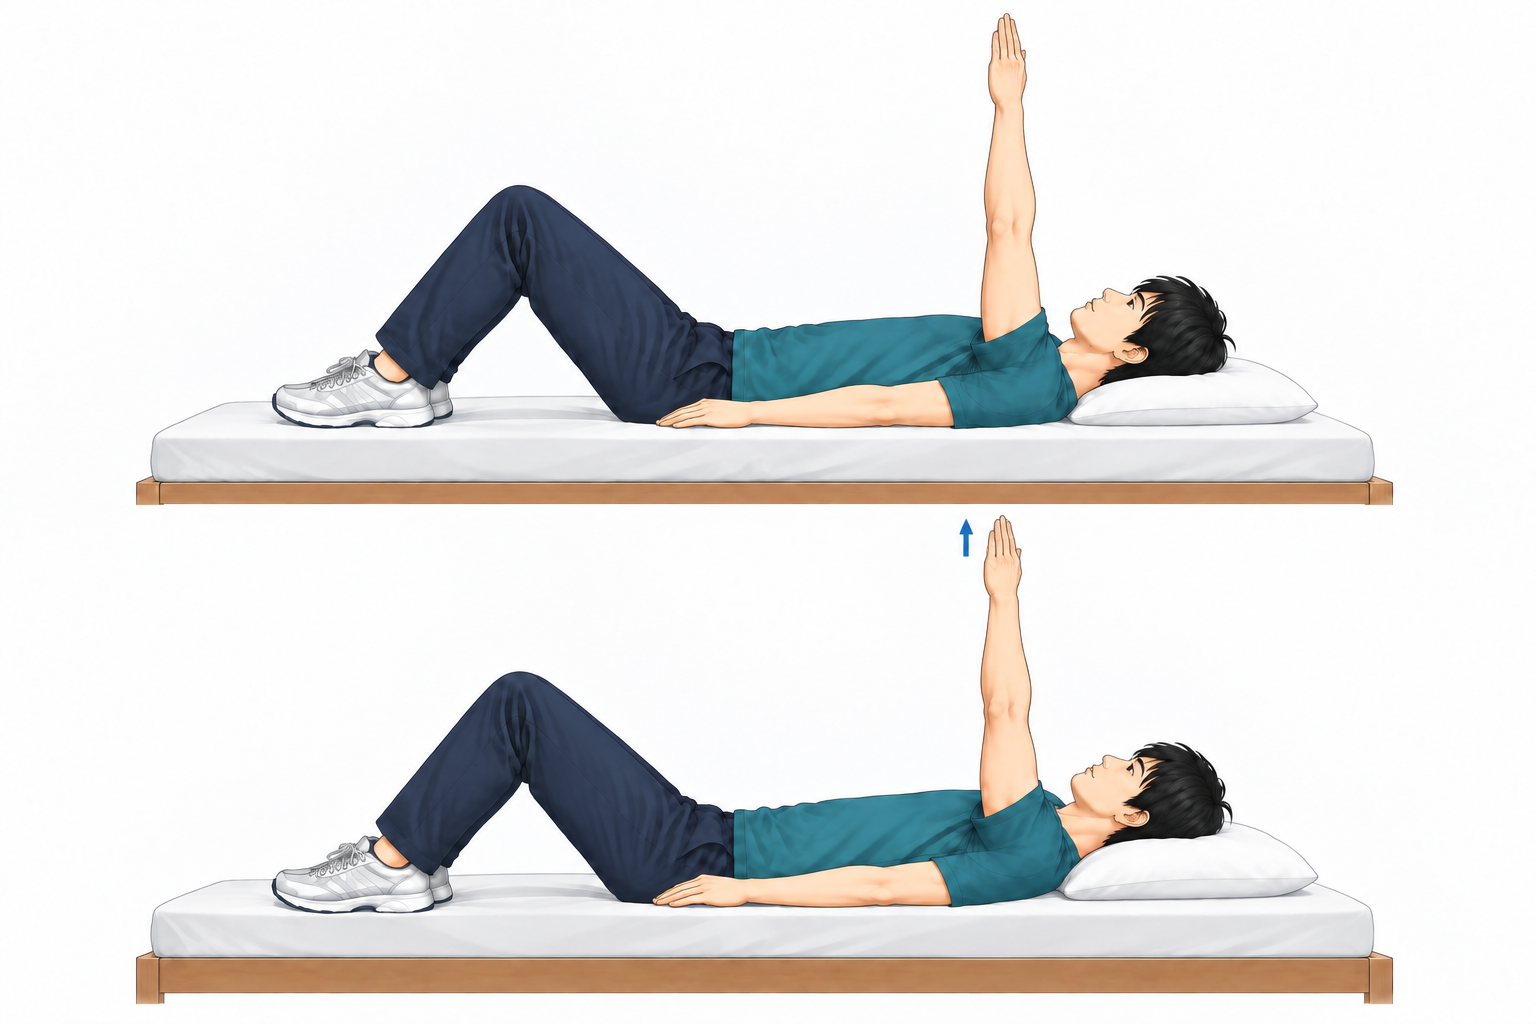
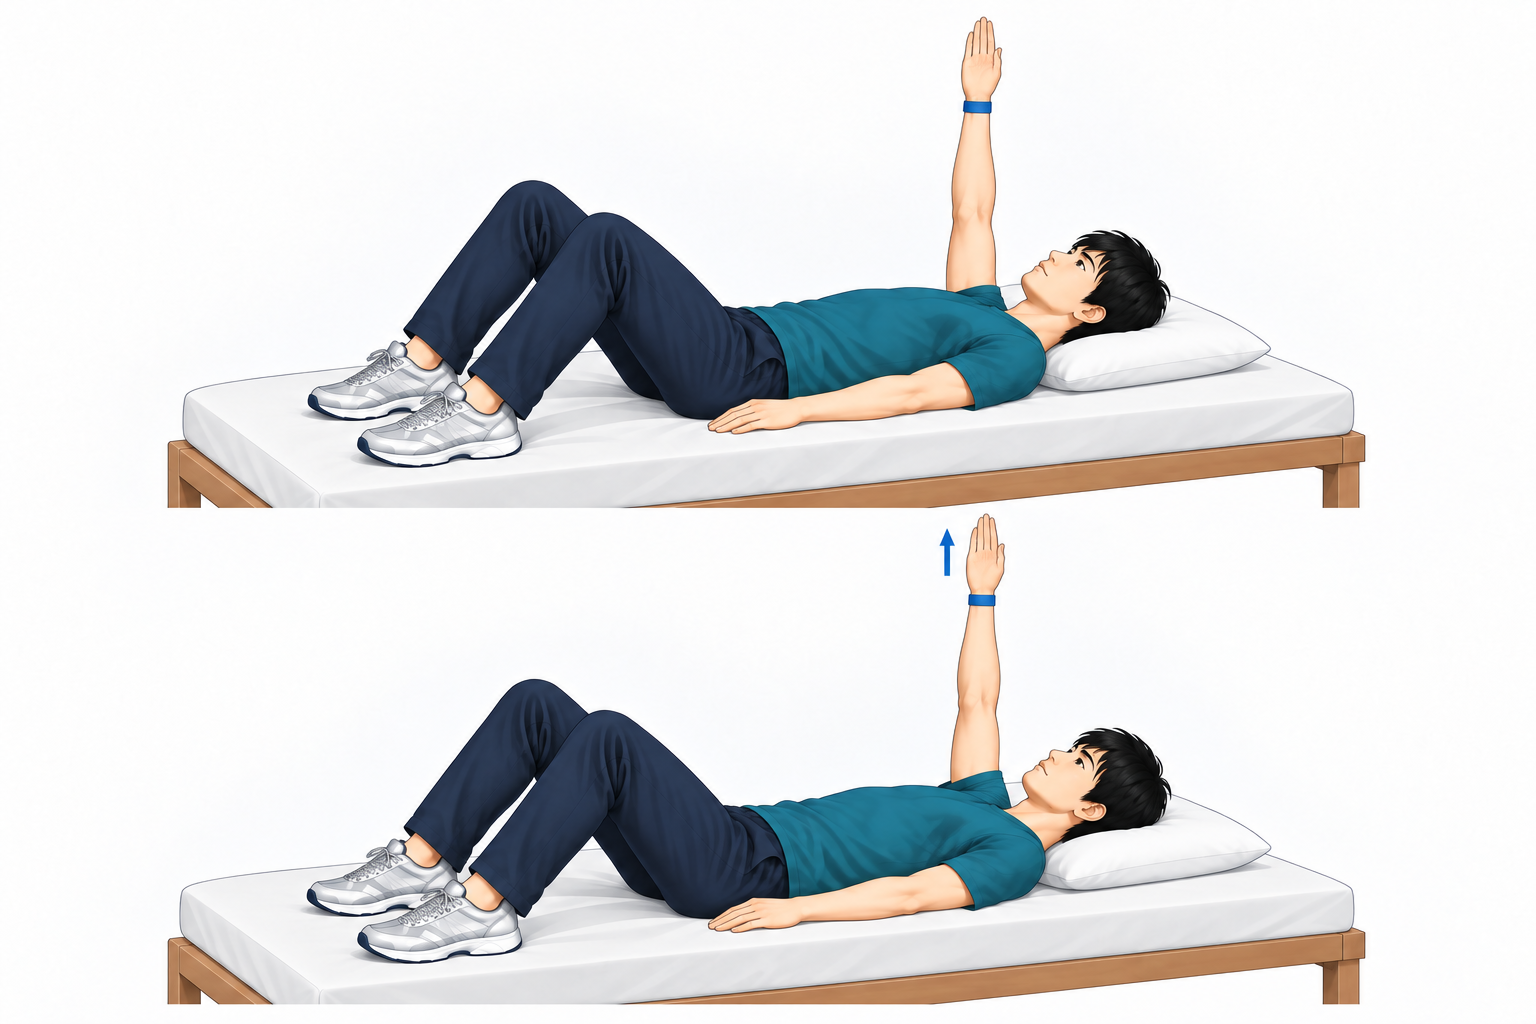
Fix duplicate exercise cards and simplify selection

Changed region(s): [[0.0625, 0.0, 0.9062, 1.0]]

diff --git a/clinical-ui.js b/clinical-ui.js
@@ -146,16 +146,21 @@ function openClinicalShelf(categoryId='G03',level){
   Object.assign(state,{categoryId,level});
   const familyOrder=['T25','T09','T26','T12'];
   const orderLevel=ids=>{const next=ids.filter(id=>!familyOrder.includes(id)),family=familyOrder.filter(id=>ids.includes(id));if(!family.length)return next;const first=Math.min(...ids.map((id,index)=>familyOrder.includes(id)?index:ids.length));next.splice(first,0,...family);return next;};
-  const candidateIds=Object.values(c.levels).flatMap(orderLevel);
+  // A movement can intentionally be referenced from more than one difficulty
+  // level. Render it once so the same card never appears twice in a shelf.
+  const candidateIds=[...new Set(Object.values(c.levels).flatMap(orderLevel))];
   for(const id of candidateIds){
     const item=clinicalBatch.items[id],saved=S.menu.find(ex=>ex.exerciseKey===CC.definitions[id].key);
     if(!item||(!item.selected&&(saved?JSON.stringify(saved):null)!==item.base))clinicalBatch.items[id]=newClinicalCandidate(id,categoryId);
   }
   // modal() replaces the DOM. Event handlers have already copied each edit into this draft.
   const draft=clinicalBatch;
-  modal('clinicalShelf',escapeHtml(clinicalCategoryName(c)),`<p class="hint">チェックで複数選択 → 必要な指示だけ変更・確認 → 一括保存。閉じると未保存の選択を取り消します。</p><div id="clinical-level" class="clinical-switch">${Object.entries({beginner:'初級',intermediate:'中級',advanced:'上級'}).map(([key,label])=>`<button class="btn btn-out" data-clinical-level="${key}" aria-pressed="${key===level}" onclick="openClinicalShelf('${categoryId}','${key}')">${label}</button>`).join('')}</div><div class="notice"><strong>疾患の注意・処方条件</strong><p>${escapeHtml(c.notes)}</p></div><label>運動名で検索<input id="clinical-exercise-search" class="fld-inp" value="${escapeAttr(draft.query)}" oninput="clinicalBatch.query=this.value;filterClinicalBatch()"></label><label class="pick-label"><input id="clinical-selected-only" type="checkbox" ${draft.only?'checked':''} onchange="clinicalBatch.only=this.checked;filterClinicalBatch()">選択済みだけ表示（段階を横断）</label><p id="clinical-batch-count" role="status"></p>
-  ${candidateIds.map(id=>[id,draft.items[id]]).map(([id,item])=>{const d=CC.definitions[id],r=item.ex.clinicalV02;return `<article class="clinical-candidate" data-clinical-exercise="${id}"><div class="clinical-candidate-heading"><label class="pick-label"><input type="checkbox" id="cb-${id}-selected" data-batch-key="selected" ${item.selected?'checked':''} ${!d.image?'disabled':''}>${escapeHtml(d.name)}</label>${d.image?`<button type="button" class="candidate-image" onclick="previewClinical('${id}')"><img src="${escapeAttr(d.image)}" alt="${escapeAttr(d.name)}の姿勢" loading="lazy"></button>`:'<span>画像保留・選択不可</span>'}</div><p class="hint">${escapeHtml(d.purpose)}${item.base?' ／ 追加済み・編集':''}</p><button type="button" class="evidence-button" onclick="showClinicalEvidence('${id}','${r.categoryId}')">参考文献・資料</button><div id="cb-${id}-selected-fields" ${!item.selected?'hidden':''}><details id="cb-${id}-details"><summary>回数・頻度を確認・変更</summary><p id="cb-${id}-overview">${escapeHtml(clinicalBatchOverview(item))}</p>${clinicalBatchFields(id,item)}</details></div></article>`;}).join('')}
-  <p id="clinical-batch-errors" role="alert"></p><button class="btn btn-out" onclick="clinicalBatch.only=true;$('clinical-selected-only').checked=true;clinicalBatch.query='';$('clinical-exercise-search').value='';filterClinicalBatch()">選択分を一括確認</button><button class="btn btn-pri" onclick="saveClinicalBatch(false)">選択種目を一括保存</button><button class="btn btn-pri" onclick="saveClinicalBatch(true)">一括保存してQR</button>`);
+  modal('clinicalShelf',escapeHtml(clinicalCategoryName(c)),`<p class="hint clinical-shelf-intro">必要な運動にチェックしてください。画像を押すと動きと資料を確認できます。</p><div id="clinical-level" class="clinical-switch">${Object.entries({beginner:'初級',intermediate:'中級',advanced:'上級'}).map(([key,label])=>`<button class="btn btn-out" data-clinical-level="${key}" aria-pressed="${key===level}" onclick="openClinicalShelf('${categoryId}','${key}')">${label}<small>${c.levels[key].length}種目</small></button>`).join('')}</div><details class="clinical-notes" open><summary>注意事項</summary><p>${escapeHtml(c.notes)}</p></details><details class="clinical-tools"><summary>検索・選択中の運動を表示</summary><label for="clinical-exercise-search">運動名で検索</label><input id="clinical-exercise-search" class="fld-inp" value="${escapeAttr(draft.query)}" oninput="clinicalBatch.query=this.value;filterClinicalBatch()"><label class="pick-label"><input id="clinical-selected-only" type="checkbox" ${draft.only?'checked':''} onchange="clinicalBatch.only=this.checked;filterClinicalBatch()">選択中だけ表示</label></details>
+  ${candidateIds.map(id=>[id,draft.items[id]]).map(([id,item])=>{const d=CC.definitions[id];return `<article class="clinical-candidate" data-clinical-exercise="${id}"><div class="clinical-candidate-heading"><label class="pick-label"><input type="checkbox" id="cb-${id}-selected" data-batch-key="selected" ${item.selected?'checked':''} ${!d.image?'disabled':''}><span>${escapeHtml(d.name)}<small>${escapeHtml(d.purpose)}${item.base?' ／ 追加済み・編集':''}</small></span></label>${d.image?`<button type="button" class="candidate-image" aria-label="${escapeAttr(d.name)}の動きと資料を確認" onclick="previewClinical('${id}')"><img src="${escapeAttr(d.image)}" alt="" loading="lazy"></button>`:'<span>画像保留・選択不可</span>'}</div><div id="cb-${id}-selected-fields" ${!item.selected?'hidden':''}><p id="cb-${id}-overview" class="clinical-dose-summary">${escapeHtml(clinicalBatchOverview(item))}</p><details id="cb-${id}-details"><summary>回数・頻度を変更する</summary>${clinicalBatchFields(id,item)}</details></div></article>`;}).join('')}
+  <div class="clinical-save-bar"><p id="clinical-batch-count" role="status"></p><p id="clinical-batch-errors" role="alert"></p><button id="clinical-save" class="btn btn-pri" onclick="saveClinicalBatch(false)">選択した運動を保存</button><button id="clinical-save-share" class="btn btn-out" onclick="saveClinicalBatch(true)">保存してQRを表示</button></div>`);
+  const clinicalNotes=$('clinicalShelf').querySelector('.clinical-notes');
+  clinicalNotes?.classList.add('notice');
+  if(clinicalNotes?.firstElementChild)clinicalNotes.firstElementChild.textContent='疾患の注意事項';
   clinicalBatch=draft;
   for(const type of ['input','change'])$('clinicalShelf').addEventListener(type,updateClinicalBatch);
   wireClinicalErrors('clinicalShelf','clinical-batch-errors');
@@ -164,7 +169,9 @@ function openClinicalShelf(categoryId='G03',level){
 function filterClinicalBatch(){
   if(!clinicalBatch)return;const state=clinicalSelectionState(),draft=clinicalBatch;
   $('clinicalShelf').querySelectorAll('[data-clinical-exercise]').forEach(row=>{const id=row.dataset.clinicalExercise;row.hidden=draft.only?!draft.items[id].selected:!CC.categories[state.categoryId].levels[state.level].includes(id)||!(CC.definitions[id].name+' '+CC.definitions[id].purpose).toLowerCase().includes(draft.query.toLowerCase());});
-  $('clinical-batch-count').textContent=`この段階 ${CC.categories[state.categoryId].levels[state.level].length}種目 ／ 表示 ${[...$('clinicalShelf').querySelectorAll('[data-clinical-exercise]')].filter(row=>!row.hidden).length}種目 ／ 選択 ${Object.values(draft.items).filter(i=>i.selected).length}種目（非表示の段階の選択も保持）`;
+  const selected=Object.values(draft.items).filter(i=>i.selected).length;
+  $('clinical-batch-count').textContent=selected?`${selected}種目を選択中`:'運動を選択してください';
+  for(const id of ['clinical-save','clinical-save-share'])$(id).disabled=selected===0;
 }
 function setClinicalBatchValue(id,key,value){if(!requireStaff())return;const input=$('cb-'+id+'-'+key);input.value=value;input.dispatchEvent(new Event('input',{bubbles:true}));}
 function selectClinicalEveryday(id){

diff --git a/app-v2.css b/app-v2.css
@@ -123,14 +123,19 @@ fieldset input[type=checkbox]{width:22px;height:22px;flex:none;accent-color:var(
 #clinical-categories .tpl-card{min-height:56px;padding:10px;white-space:normal;overflow-wrap:anywhere}
 .clinical-switch{display:flex;gap:8px;margin:8px 0}
 .clinical-switch .btn{flex:1;min-width:0;min-height:44px;margin:0;padding:10px 4px;white-space:normal}
+.clinical-switch .btn small{display:block;font-size:11px;font-weight:500;margin-top:2px}
 .clinical-switch [aria-pressed="true"]{background:var(--teal);color:white;border:2px solid var(--teal);font-weight:700}
 .clinical-notes summary{min-height:44px;padding:12px 0;cursor:pointer}
-.clinical-candidate{border:1px solid #c7d9d9;border-radius:10px;padding:10px;margin:10px 0;min-width:0}
+.clinical-tools{margin:4px 0 10px}.clinical-tools summary{min-height:44px;padding:10px 0;cursor:pointer;color:var(--teal);font-weight:700}.clinical-tools .pick-label{font-size:15px}
+.clinical-shelf-intro{margin:0 0 6px}
+.clinical-candidate{border:1px solid #c7d9d9;border-radius:12px;padding:10px 12px;margin:8px 0;min-width:0}
 .clinical-candidate-heading{display:flex;align-items:center;gap:12px;min-width:0}
 .clinical-candidate-heading img{width:72px;height:72px;object-fit:contain;flex-shrink:0}
 .clinical-candidate-heading h3{font-size:16px;min-width:0;margin:0;overflow-wrap:anywhere}
 #clinicalShelf .clinical-candidate[hidden]{display:none!important}
 #clinicalShelf .clinical-candidate-heading>.pick-label{flex:1;min-width:0;overflow-wrap:anywhere;min-height:44px;align-items:center}
+#clinicalShelf .clinical-candidate-heading>.pick-label span{display:block;min-width:0}
+#clinicalShelf .clinical-candidate-heading>.pick-label small{display:block;color:var(--text2);font-size:13px;font-weight:500;margin-top:3px}
 #clinicalShelf .candidate-image{flex:0 0 72px;width:72px;height:56px;padding:2px}
 #clinicalShelf .candidate-image img{width:100%;height:100%}
 #clinicalShelf details>summary{min-height:44px;padding:10px 0;cursor:pointer;overflow-wrap:anywhere}
@@ -138,6 +143,10 @@ fieldset input[type=checkbox]{width:22px;height:22px;flex:none;accent-color:var(
 #clinicalShelf .fld-inp{max-width:100%;min-width:0}
 #clinicalShelf .dose-choice{min-width:44px;min-height:44px}
 #clinical-batch-errors{color:#9c2626;white-space:pre-wrap;overflow-wrap:anywhere}
+.clinical-dose-summary{font-size:13px;color:var(--teal-d);margin:6px 0 0}
+.clinical-save-bar{position:sticky;bottom:0;z-index:2;background:#fff;border-top:1px solid var(--border);padding:8px 0 calc(4px + env(safe-area-inset-bottom,0px));margin-top:12px}
+.clinical-save-bar #clinical-batch-count{margin:0 0 6px;text-align:center;color:var(--teal-d);font-weight:700}
+.clinical-save-bar #clinical-batch-errors:empty{display:none}.clinical-save-bar .btn{width:100%;margin:5px 0}
 .clinical-candidate-actions{display:flex;gap:8px;margin-top:8px}
 .clinical-candidate-actions .btn{flex:1;min-width:0;min-height:44px;margin:0;padding:8px 4px;white-space:normal}
 /* Clinical v0.2: text reflows; primary and stop controls remain in the dialog. */

diff --git a/clinical-catalog.js b/clinical-catalog.js
@@ -220,9 +220,9 @@ const data={
       "image": "images/S11.png",
       "imageCaption": "肘を伸ばしたまま、手を天井へ少し近づけて戻します。腕を頭側へ倒さないでください。",
       "assetStatus": "修正後採用候補",
-      "assetNotes": "生成後実見：頭右、手前左腕は床、奥右腕は天井へ。肘伸展を保ち小さな上矢印。肩甲骨そのものは隠れるため本文を併用。",
+      "assetNotes": "開始は右肩を床へ休め、終了は肘を伸ばしたまま右肩を少し浮かせて手を天井へ近づける2姿勢。右手首の青いバンドと小さな上矢印で挙上側を明示。左右の腕は各肩から連続し、各姿勢とも腕2本・手2つ。肩甲骨そのものは隠れるため本文を併用。",
       "clinicalStatus": "pending_review",
[2 lines of base64/hex data omitted]
     },
     "S12": {
       "id": "S12",

diff --git a/sw.js b/sw.js
@@ -2,8 +2,8 @@
 importScripts('./exercises.js');
 importScripts('./clinical-catalog.js');
 const PREFIX = 'patient-rehab-' + encodeURIComponent(self.registration.scope) + '-';
-const CACHE = PREFIX + 'v63';
-const IMAGE_CACHE = PREFIX + 'clinical-images-v1';
+const CACHE = PREFIX + 'v64';
+const IMAGE_CACHE = PREFIX + 'clinical-images-v2';
 const IMAGE_URLS = new Set(Object.values(ClinicalCatalog.definitions).filter(d=>d.image).map(d=>new URL(d.image,self.registration.scope).href));
 const FILES = ['./','./index.html','./manifest.json','./clinical-catalog.js','./clinical-rules.js','./clinical-ui.js','./clinical-review.html','./core.js','./exercises.js','./prescription-defaults.js','./disease-library.js','./exercise-selection.js','./ui.js','./app-v2.js','./bug-report.js','./exercise-print.js','./exercise-video.js','./patient-video.js','./clinical-evidence.js','./exercise-evidence.js','./app-v2.css',
   './icon-180.png','./icon-192.png','./icon-512.png',

diff --git a/bug-report.js b/bug-report.js
@@ -10,7 +10,7 @@ function bugReportEnvironment(nav){
   return `端末：${device}\nOS：${os}\nブラウザ：${browser}`;
 }
 function buildBugReport(intent,actual,nav,date){
-  return `【不具合報告】\nやろうとしたこと：\n${intent}\n\n実際に起きたこと：\n${actual}\n\nアプリ版：v63\n日時：${date.toISOString()}（UTC）\n${bugReportEnvironment(nav)}`;
+  return `【不具合報告】\nやろうとしたこと：\n${intent}\n\n実際に起きたこと：\n${actual}\n\nアプリ版：v64\n日時：${date.toISOString()}（UTC）\n${bugReportEnvironment(nav)}`;
 }
 function openBugReport(){
   modal('bugReportModal','不具合を報告',`

diff --git a/README.md b/README.md
@@ -1,5 +1,11 @@
 # 患者リハビリチェックアプリ
 
+## 2026-09-28 運動選択の重複修正・簡素化（v64）
+
+- 同じ運動が複数の難易度に含まれる場合でも、疾患別メニュー内のカードは1枚だけ表示します。テニス肘の「軽い棒を回す」「手首を保って軽く握る」、頚椎椎間板ヘルニアの「短い歩行」などの二重表示を解消しました。
+- 運動選択画面は、段階・運動カード・保存操作を中心に整理しました。疾患の注意事項は最初から表示し、検索は必要時だけ開き、参考資料は画像プレビュー内へまとめています。未選択時は保存ボタンを無効にし、選択数だけを簡潔に表示します。
+- S11「仰向けで手を天井へ」は、右腕だけを挙上し左腕は体側に置く、腕と手が各2本で明確な画像へ差し替えました。画像ハッシュと画像用オフラインキャッシュ版も更新済みです。
+
 ## 2026-09-26 ダブルタップ拡大の防止（v61）
 
 - ボタンなどを素早く2回押したときの意図しない画面拡大を防ぎました。必要なピンチ拡大は利用できます。
